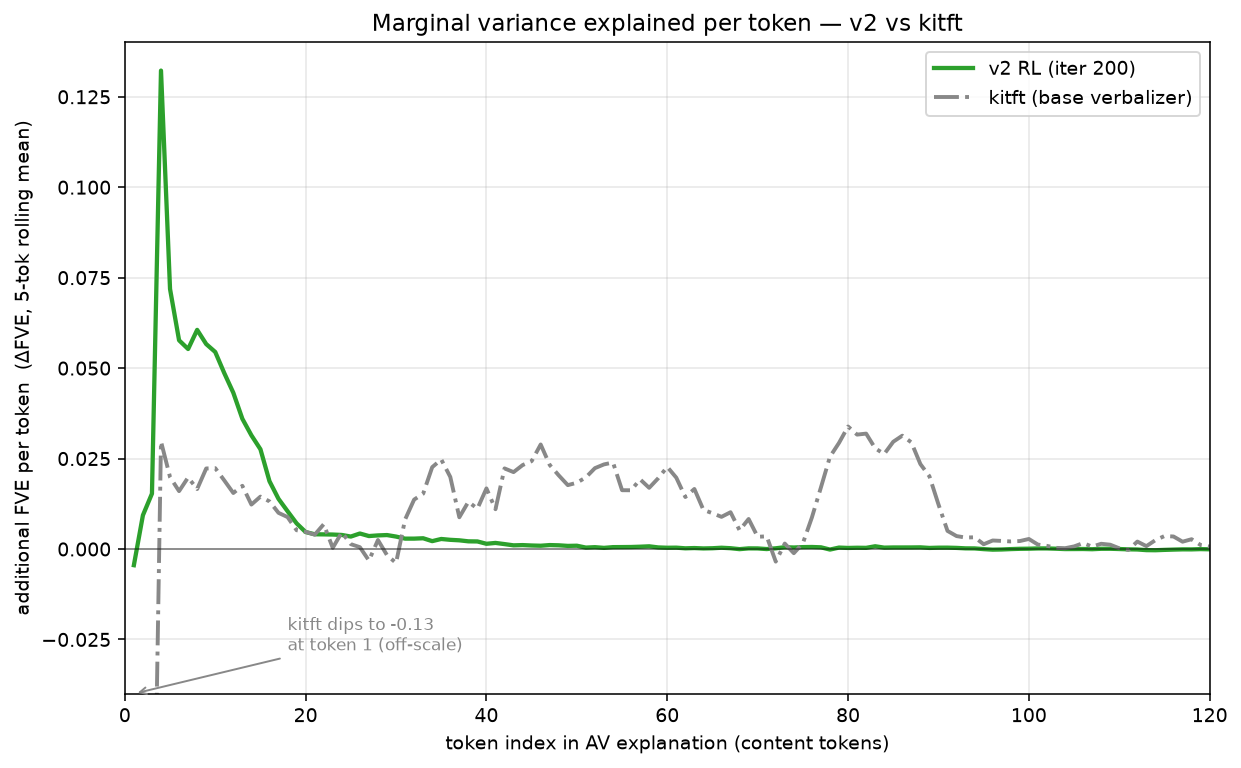
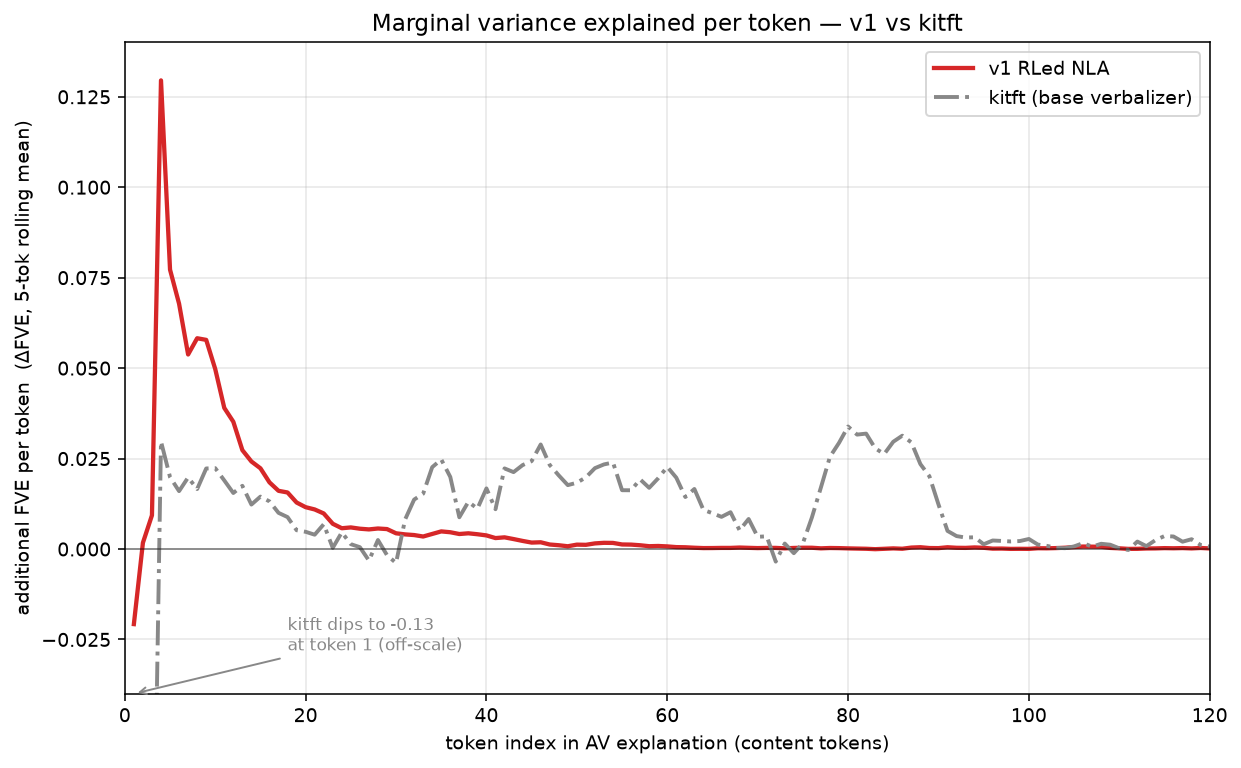
🎨 Per-token marginal graph: v1 vs kitft only
Claude-Session: https://claude.ai/code/session_013QpD8gUKVwdg5FeGc2gDm2

diff --git a/experiments/qwen2.5-matryoshka-warmstart-sonnet46/fve_truncation_sweep/plot_marginal_pertoken_v1_v2_kitft.py b/experiments/qwen2.5-matryoshka-warmstart-sonnet46/fve_truncation_sweep/plot_marginal_pertoken_v1_v2_kitft.py
@@ -15,7 +15,7 @@ R = os.path.join(HERE, "results")
 XCAP_TOK = 120
 WIN = 5
 SRCS = [
-    ("_iter0000200", "v2 RL (iter 200)", "#2ca02c", "-", 2.2),
+    ("", "v1 RLed NLA", "#d62728", "-", 2.2),
     ("_kitft", "kitft (base verbalizer)", "#888888", "-.", 2.0),
 ]
 YMIN, YMAX = -0.04, 0.14   # clip so the main curves fill the panel
@@ -55,7 +55,7 @@ if kmin and kmin[0] < YMIN:
                 arrowprops=dict(arrowstyle="->", color="#888888", lw=1))
 ax.set_xlabel("token index in AV explanation (content tokens)")
 ax.set_ylabel(f"additional FVE per token  (ΔFVE, {WIN}-tok rolling mean)")
-ax.set_title("Marginal variance explained per token — v2 vs kitft")
+ax.set_title("Marginal variance explained per token — v1 vs kitft")
 ax.grid(alpha=.3); ax.legend(fontsize=10)
 fig.tight_layout()
 out = os.path.join(R, "fig_marginal_pertoken_v1_v2_kitft.png")